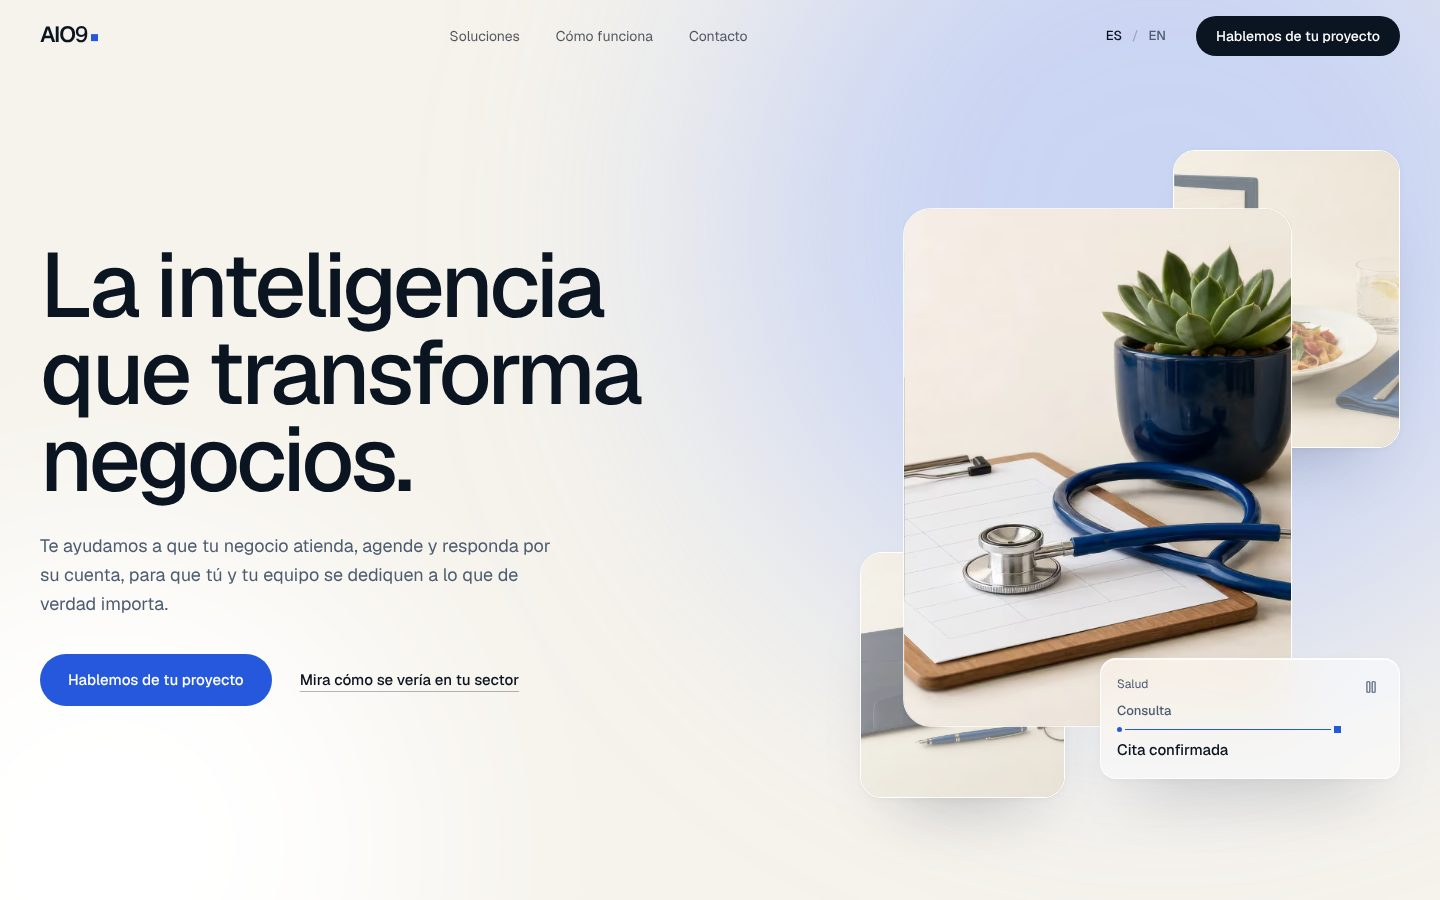
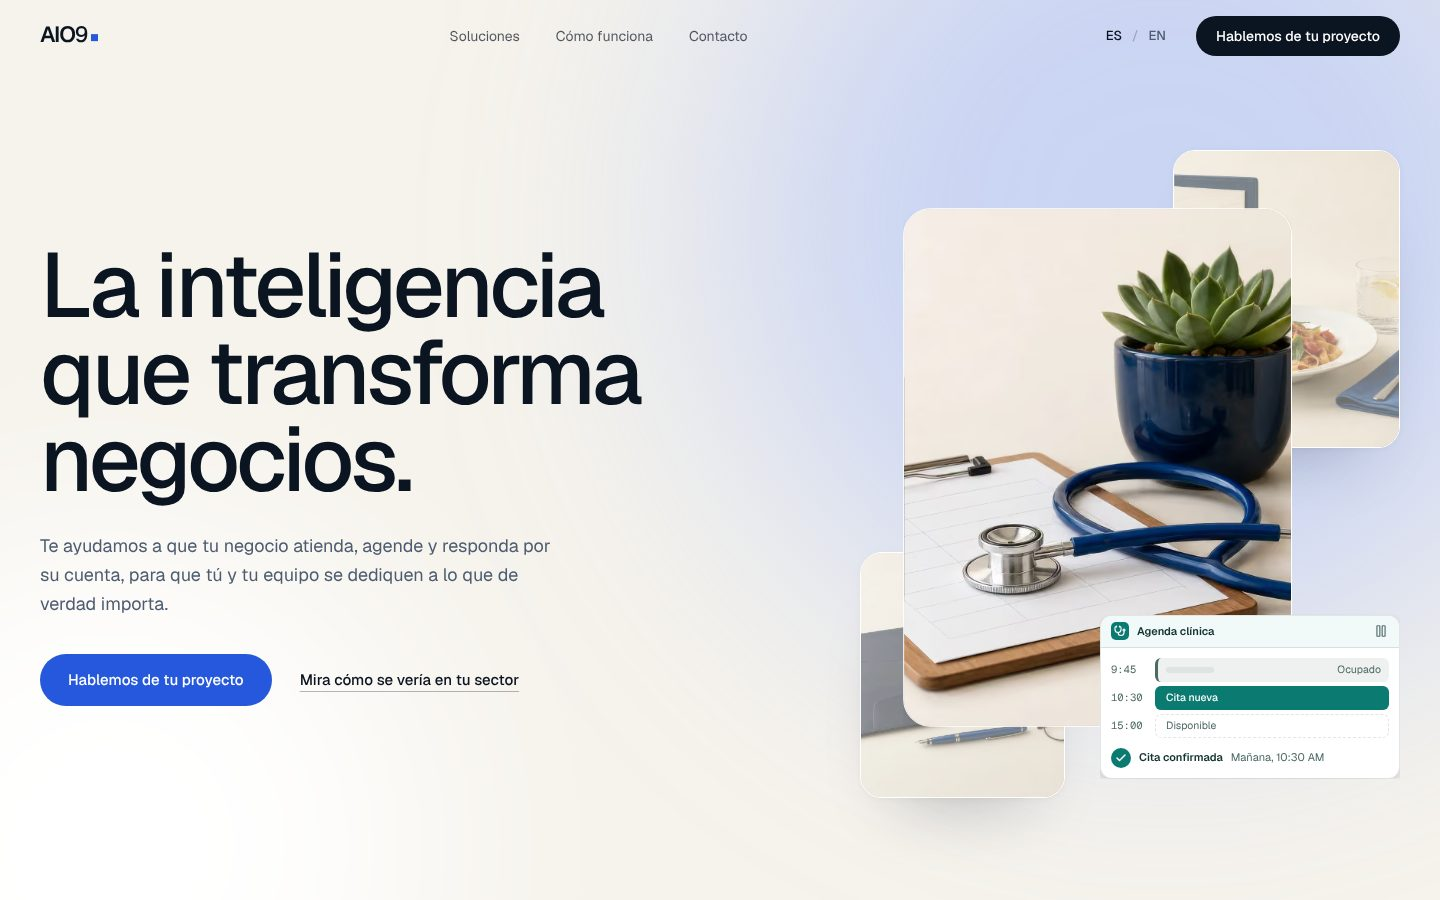
Show each industry's own software in the hero; drop the backdrop text
- Hero: a compact window of the active industry's product, in its own
  theme, replaces the generic glass card and swaps with the same clip-path
  wipe as the photographs
- Mosaic: remove the large background tagline that read as noise

Claude-Session: https://claude.ai/code/session_01EWRUrFV6nYxUSpwozbPekn

Changed region(s): [[0.75, 0.6844, 0.9688, 0.8711]]

diff --git a/src/components/hero/HeroApp.tsx b/src/components/hero/HeroApp.tsx
@@ -1,0 +1,203 @@
+"use client";
+
+import { useState } from "react";
+import * as m from "motion/react-m";
+import { Check, UserCheck } from "lucide-react";
+import type { IndustryId } from "@/data/industries";
+import { industryById } from "@/data/industries";
+import { themeVars } from "@/data/themes";
+import type { Dictionary } from "@/i18n/dictionaries";
+import { duration, ease } from "@/lib/motion";
+import { cn } from "@/lib/cn";
+import { usePrefersReducedMotion } from "@/lib/usePrefersReducedMotion";
+import { Skeleton } from "@/components/demos/primitives/AppWindow";
+import { Chip } from "@/components/demos/primitives/Chip";
+
+type Industries = Dictionary["industries"];
+
+const FULL = "inset(0% 0% 0% 0%)";
+const FROM = "inset(0% 0% 0% 100%)";
+
+/** A compact view of the clinic schedule: one slot just got booked. */
+function HealthcareApp({ t }: { t: Industries["healthcare"]["demo"] }) {
+  const rows = [
+    { time: t.slots[1], label: t.busy, kind: "busy" },
+    { time: t.slots[2], label: t.booked, kind: "booked" },
+    { time: t.slots[4], label: t.free, kind: "open" },
+  ] as const;
+  return (
+    <>
+      <ul className="flex flex-col gap-1">
+        {rows.map((row) => (
+          <li key={row.time} className="flex items-center gap-2">
+            <span className="w-9 shrink-0 font-mono text-[10.5px] text-(--win-muted) tabular-nums">
+              {row.time}
+            </span>
+            <span
+              className={cn(
+                "flex h-6 min-w-0 flex-1 items-center justify-between rounded-md border-l-[3px] px-2 text-[10.5px]",
+                row.kind === "booked"
+                  ? "border-(--app) bg-(--app) font-medium text-(--app-on)"
+                  : row.kind === "open"
+                    ? "border-transparent text-(--win-muted) outline-1 -outline-offset-1 outline-(--win-line) outline-dashed"
+                    : "border-(--win-muted) bg-(--win-fill) text-(--win-muted)",
+              )}
+            >
+              {row.kind === "busy" && <Skeleton className="w-12" />}
+              <span className={row.kind === "busy" ? undefined : "truncate"}>{row.label}</span>
+            </span>
+          </li>
+        ))}
+      </ul>
+      <Footer icon={<Check aria-hidden className="size-3" strokeWidth={3} />} title={t.confirmed} detail={t.when} />
+    </>
+  );
+}
+
+/** A compact view of the dining room: table 7 is assigned. */
+function HospitalityApp({ t }: { t: Industries["hospitality"]["demo"] }) {
+  const tables = [
+    { n: 5, state: "taken" },
+    { n: 6, state: "taken" },
+    { n: 7, state: "assigned" },
+    { n: 8, state: "taken" },
+    { n: 9, state: "open" },
+  ] as const;
+  return (
+    <>
+      <p className="truncate text-[11px] font-semibold">{t.floor}</p>
+      <ul className="mt-1.5 grid grid-cols-5 gap-1.5 rounded-lg bg-(--win-fill) p-2">
+        {tables.map((table) => (
+          <li
+            key={table.n}
+            className={cn(
+              "grid h-8 place-items-center rounded-md text-[11px]",
+              table.state === "assigned"
+                ? "bg-(--app) font-bold text-(--app-on)"
+                : table.state === "taken"
+                  ? "bg-white/15 text-(--win-muted)"
+                  : "text-(--win-muted) outline-1 -outline-offset-1 outline-white/40",
+            )}
+          >
+            {table.n}
+          </li>
+        ))}
+      </ul>
+      <Footer
+        icon={<Check aria-hidden className="size-3" strokeWidth={3} />}
+        title={t.ticket}
+        detail={`${t.table} · ${t.when}`}
+      />
+    </>
+  );
+}
+
+/** A compact view of the document workspace: fields extracted, handed to a person. */
+function ServicesApp({ t }: { t: Industries["services"]["demo"] }) {
+  return (
+    <>
+      <dl className="flex flex-col text-[11px]">
+        {t.fields.map((field, i) => (
+          <div
+            key={field}
+            className="flex items-center justify-between gap-2 border-b border-(--win-line) py-1 first:pt-0"
+          >
+            <dt className="text-(--win-muted)">{field}</dt>
+            <dd className="font-medium">{t.values[i]}</dd>
+          </div>
+        ))}
+      </dl>
+      <Footer icon={<UserCheck aria-hidden className="size-3" />} title={t.review} detail={t.reviewer} />
+    </>
+  );
+}
+
+function Footer({ icon, title, detail }: { icon: React.ReactNode; title: string; detail: string }) {
+  return (
+    <p className="mt-auto flex items-center gap-2 pt-2 text-[11px]">
+      <span className="grid size-5 shrink-0 place-items-center rounded-full bg-(--app) text-(--app-on)">
+        {icon}
+      </span>
+      <span className="font-semibold">{title}</span>
+      <span className="truncate text-(--win-muted)">{detail}</span>
+    </p>
+  );
+}
+
+function Body({ id, industries }: { id: IndustryId; industries: Industries }) {
+  switch (id) {
+    case "healthcare":
+      return <HealthcareApp t={industries.healthcare.demo} />;
+    case "hospitality":
+      return <HospitalityApp t={industries.hospitality.demo} />;
+    case "services":
+      return <ServicesApp t={industries.services.demo} />;
+    default: {
+      // Industries without a compact view fall back to their one-line story.
+      const text = industries[id];
+      return (
+        <p className="flex flex-1 items-center gap-2 text-[12px]">
+          <span className="text-(--win-muted)">{text.from}</span>
+          <Chip tone="accent">{text.to}</Chip>
+        </p>
+      );
+    }
+  }
+}
+
+/**
+ * The small product window in the hero. Each industry shows its own software,
+ * in its own colours, and windows replace each other with the same
+ * directional wipe as the photographs behind them.
+ */
+export function HeroApp({
+  ids,
+  active,
+  industries,
+  action,
+}: {
+  ids: readonly IndustryId[];
+  active: number;
+  industries: Industries;
+  /** Control shown in the title bar of the visible window (pause / play). */
+  action?: React.ReactNode;
+}) {
+  const reduced = usePrefersReducedMotion();
+  const [state, setState] = useState({ active, previous: active });
+  if (state.active !== active) setState({ active, previous: state.active });
+
+  return (
+    <div className="relative h-[164px]">
+      {ids.map((id, i) => {
+        const isActive = i === state.active;
+        const isPrevious = i === state.previous && !isActive;
+        const { icon: Icon, theme } = industryById[id];
+        return (
+          <m.div
+            key={id}
+            aria-hidden={!isActive}
+            inert={!isActive}
+            style={{ ...themeVars(theme), zIndex: isActive ? 2 : isPrevious ? 1 : 0 }}
+            initial={false}
+            animate={{ clipPath: isActive ? [FROM, FULL] : FULL, opacity: isActive || isPrevious ? 1 : 0 }}
+            transition={{ duration: reduced || !isActive ? 0 : duration.scene, ease }}
+            className="absolute inset-0 flex flex-col overflow-hidden rounded-xl border border-(--win-line) bg-(--win) text-(--win-text) shadow-float"
+          >
+            <div className="flex h-8 shrink-0 items-center gap-2 border-b border-(--win-line) bg-(--win-chrome) pr-1 pl-2.5 text-(--win-chrome-text)">
+              <span className="grid size-[18px] shrink-0 place-items-center rounded-[5px] bg-(--app) text-(--app-on)">
+                <Icon aria-hidden className="size-3" strokeWidth={2.25} />
+              </span>
+              <span className="min-w-0 flex-1 truncate text-[11px] font-semibold">
+                {industries[id].demo.app}
+              </span>
+              {isActive && action}
+            </div>
+            <div className="flex min-h-0 flex-1 flex-col p-2.5">
+              <Body id={id} industries={industries} />
+            </div>
+          </m.div>
+        );
+      })}
+    </div>
+  );
+}

diff --git a/src/components/hero/HeroStack.tsx b/src/components/hero/HeroStack.tsx
@@ -2,14 +2,12 @@
 
 import { usePrefersReducedMotion } from "@/lib/usePrefersReducedMotion";
 import { useEffect, useState } from "react";
-import { AnimatePresence } from "motion/react";
-import * as m from "motion/react-m";
 import { Pause, Play } from "lucide-react";
 import type { Dictionary } from "@/i18n/dictionaries";
 import { heroIndustryIds, industryById } from "@/data/industries";
-import { ease } from "@/lib/motion";
 import { cn } from "@/lib/cn";
 import { Drift } from "@/components/flow/parallax";
+import { HeroApp } from "./HeroApp";
 import { WipeStack, type WipeImage } from "@/components/industries/WipeStack";
 
 const ROTATE_MS = 4200;
@@ -36,8 +34,8 @@ const frames = [
 ];
 
 /**
- * Three layered photographs that trade places, with a small floating
- * interface naming the transformation of the active case.
+ * Three layered photographs that trade places, with a small floating window
+ * showing the active industry's own software.
  */
 export function HeroStack({
   t,
@@ -66,7 +64,6 @@ export function HeroStack({
     alt: industries[id].alt,
     focus: industryById[id].focus,
   }));
-  const current = industries[heroIndustryIds[active]];
 
   return (
     <div
@@ -123,61 +120,28 @@ export function HeroStack({
       })}
 
       <Drift speed={-0.07} className="absolute right-0 bottom-[3%] z-30 w-[min(300px,78%)]">
-        <div className="glass animate-rise rounded-2xl p-4 [animation-delay:950ms]">
-        <div className="flex items-start justify-between gap-3">
-          <AnimatePresence mode="wait" initial={false}>
-            <m.div
-              key={heroIndustryIds[active]}
-              initial={{ opacity: 0, y: 8 }}
-              animate={{ opacity: 1, y: 0 }}
-              exit={{ opacity: 0, y: -6 }}
-              transition={{ duration: 0.28, ease }}
-              className="min-w-0 flex-1"
-            >
-              <p className="truncate text-[12px] text-slate-600">
-                {current.name}
-              </p>
-              <p className="mt-2 text-[13px] font-medium text-slate-600">
-                {current.from}
-              </p>
-              <span
-                aria-hidden
-                className="my-1.5 flex items-center gap-[3px] text-signal"
-              >
-                <span className="size-[5px] rounded-full bg-current" />
-                <span className="relative h-px flex-1 bg-midnight/15">
-                  <m.span
-                    className="absolute inset-0 origin-left bg-current"
-                    initial={{ scaleX: 0 }}
-                    animate={{ scaleX: 1 }}
-                    transition={{ duration: 0.9, ease, delay: 0.2 }}
-                  />
-                </span>
-                <m.span
-                  className="size-[7px] bg-current"
-                  initial={{ opacity: 0.2 }}
-                  animate={{ opacity: 1 }}
-                  transition={{ duration: 0.2, delay: 1 }}
-                />
-              </span>
-              <p className="text-[15px] font-medium">{current.to}</p>
-            </m.div>
-          </AnimatePresence>
-          {!reduced && (
-            <button
-              type="button"
-              aria-label={paused ? t.play : t.pause}
-              onClick={() => setPaused((value) => !value)}
-              className="-mt-1.5 -mr-1.5 grid size-9 shrink-0 place-items-center rounded-full text-slate-600 transition-colors duration-200 hover:bg-midnight/8 hover:text-midnight"
-            >
-              {paused ? (
-                <Play aria-hidden className="size-3.5" />
-              ) : (
-                <Pause aria-hidden className="size-3.5" />
-              )}
-            </button>
-          )}
-        </div>
+        <div className="animate-rise [animation-delay:950ms]">
+          <HeroApp
+            ids={heroIndustryIds}
+            active={active}
+            industries={industries}
+            action={
+              reduced ? undefined : (
+                <button
+                  type="button"
+                  aria-label={paused ? t.play : t.pause}
+                  onClick={() => setPaused((value) => !value)}
+                  className="grid size-7 shrink-0 place-items-center rounded-md opacity-70 transition-opacity duration-200 hover:opacity-100"
+                >
+                  {paused ? (
+                    <Play aria-hidden className="size-3.5" />
+                  ) : (
+                    <Pause aria-hidden className="size-3.5" />
+                  )}
+                </button>
+              )
+            }
+          />
         </div>
       </Drift>
     </div>

diff --git a/src/components/flow/ServicesFlow.tsx b/src/components/flow/ServicesFlow.tsx
@@ -122,7 +122,6 @@ export function ServicesFlow({ dict }: { dict: Dictionary }) {
   const backdropY = useTransform(scrollYProgress, (value) =>
     distance ? 0 : value * -260,
   );
-  const wordsX = useTransform(scrollYProgress, (value) => `${8 - value * 70}%`);
   const flow = useMemo(
     () => ({ trackX: x, horizontal: distance > 0 }),
     [x, distance],
@@ -194,12 +193,6 @@ export function ServicesFlow({ dict }: { dict: Dictionary }) {
               <span className="absolute top-[2%] left-[52%] size-[42vmax] rounded-full bg-signal-300/35 blur-[120px]" />
               <span className="absolute top-[40%] left-[76%] size-[40vmax] rounded-full bg-signal/18 blur-[110px]" />
             </m.div>
-            <m.p
-              style={{ x: wordsX }}
-              className="absolute top-1/2 left-0 hidden -translate-y-1/2 text-[24vw] leading-none font-semibold tracking-[-0.05em] whitespace-nowrap text-midnight/[0.035] lg:block"
-            >
-              {dict.footer.tagline}
-            </m.p>
           </div>
 
           <FlowContext value={flow}>

diff --git a/docs/ARCHITECTURE.md b/docs/ARCHITECTURE.md
@@ -125,6 +125,14 @@ tema. Cada par texto/fondo de los seis temas se verificó a 4.5:1 o más.
 Para cambiar los colores de un producto basta editar su entrada en
 `src/data/themes.ts`.
 
+### El software en el hero
+
+`hero/HeroApp.tsx` muestra, junto a las fotografías, una ventana compacta del
+producto del rubro activo (agenda clínica, reservas, documentos), con su tema.
+Las ventanas se relevan con el mismo barrido de `clip-path` que las fotos. Los
+rubros del hero se eligen en `heroIndustryIds` (`src/data/industries.ts`); uno
+sin vista compacta propia cae a una línea "de → a".
+
 ### Añadir una industria
 
 1. Imagen en `public/images/industries/` y entrada en `src/data/industries.ts`
